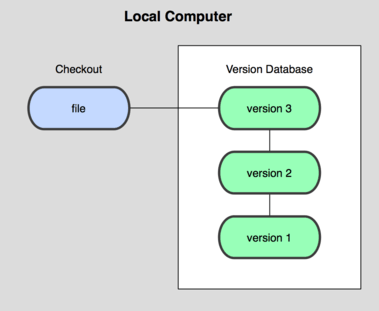
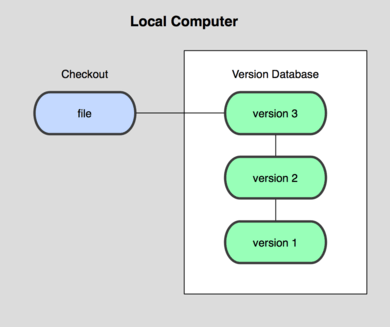
deploy: eb1fb863b1b8ec7326599b8f8150fbf73e6ccc9b

diff --git a/_src/styles/lesson.css b/_src/styles/lesson.css
@@ -78,7 +78,7 @@
 }
 
 #lesson img {
-  width: 95%;
+  width: auto;
   max-width: 900px;
   height: auto;
   display: block;
